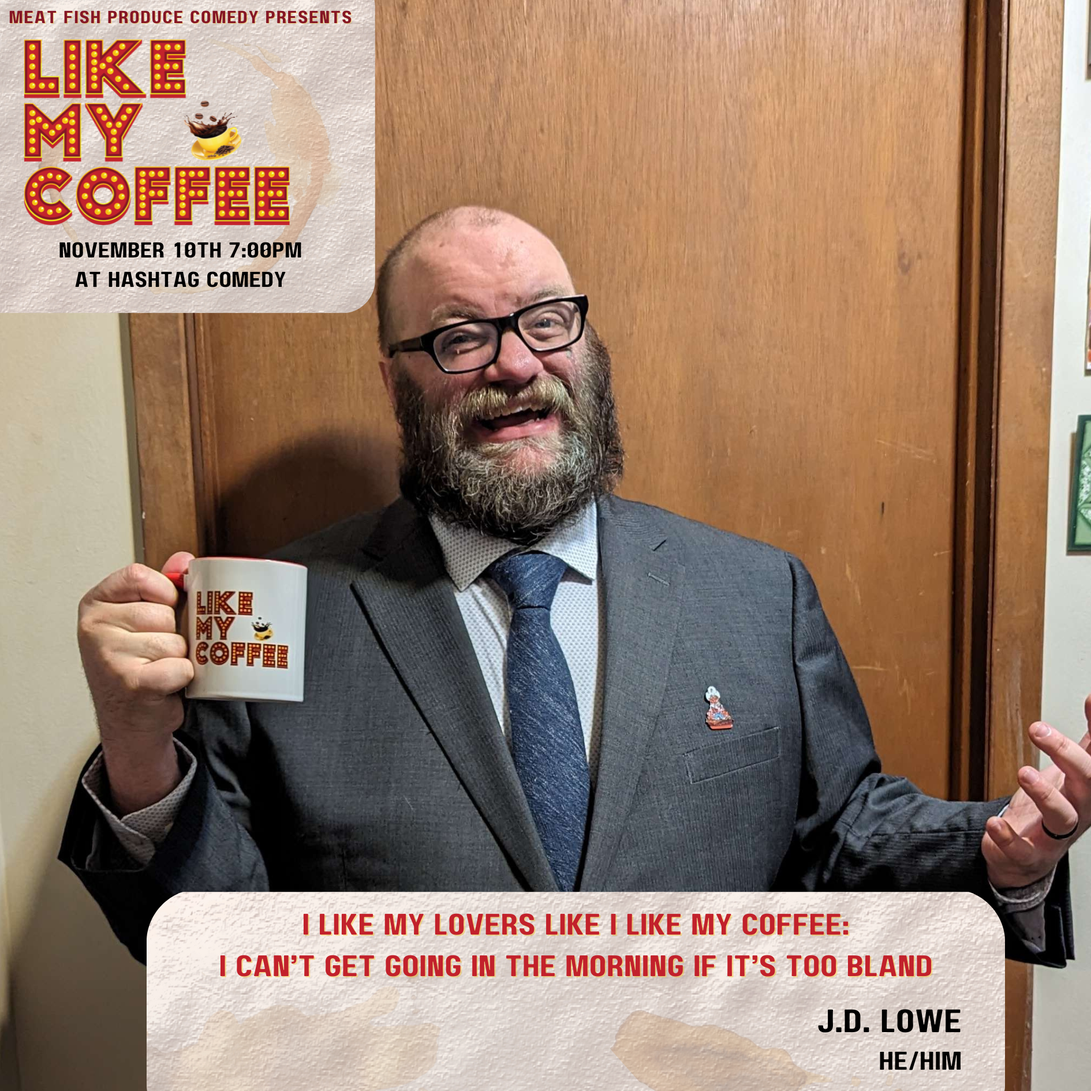
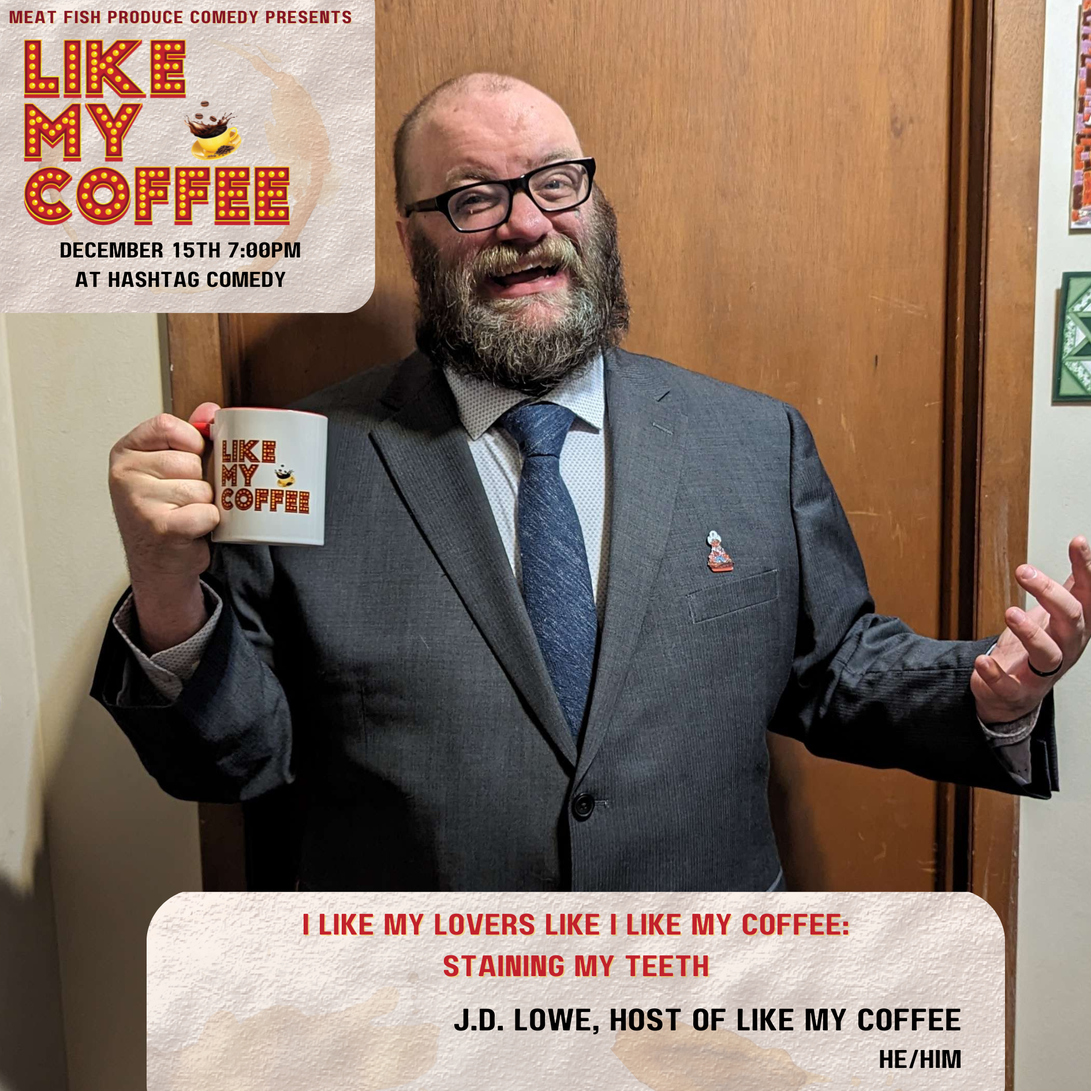
Prep for rehearsal

diff --git a/server/src/shows/archived/20241110.ts b/server/src/shows/archived/20241110.ts
@@ -1,0 +1,97 @@
+import { ShowType } from "../../../sharedCopy";
+
+export const show: ShowType = {
+	rounds: [
+		{
+			players: [
+				{
+					displayName: "Colin",
+					pronouns: "He/Him",
+					score: 0,
+					soundIndex: 0,
+				},
+				{
+					displayName: "Dodie",
+					pronouns: "He/Him",
+					score: 0,
+					soundIndex: 1,
+				},
+				{
+					displayName: "Leslie",
+					pronouns: "She/Her",
+					score: 0,
+					soundIndex: 2,
+				},
+			],
+			minigame: "We've Got Movie Line!",
+			example:
+				"Sex with me is like the movie Aladdin; the sequels ain't getting better",
+		},
+		{
+			players: [
+				{
+					displayName: "Dennison",
+					pronouns: "He/Him",
+					score: 0,
+					soundIndex: 3,
+				},
+				{
+					displayName: "Barack",
+					pronouns: "He/Him",
+					score: 0,
+					soundIndex: 4,
+				},
+				{
+					displayName: "Adam",
+					pronouns: "He/Him",
+					score: 0,
+					soundIndex: 5,
+				},
+			],
+			minigame: "Sexy Slogans",
+			example: "Nike - Just Do Me, or McDonalds: *jingle* I'm lovin' dick.",
+		},
+		{
+			players: [
+				{
+					displayName: "Tanya",
+					pronouns: "She/Her",
+					score: 0,
+					soundIndex: 6,
+				},
+				{
+					displayName: "Jules",
+					pronouns: "She/Her",
+					score: 0,
+					soundIndex: 7,
+				},
+				{
+					displayName: "Mike",
+					pronouns: "He/Him",
+					score: 0,
+					soundIndex: 8,
+				},
+			],
+			minigame: "Broken Communication",
+			example: "Flossing - Wow, I got really deep in there that time!",
+		},
+	],
+	images: [
+		"Apply.png",
+		"Adam.png",
+		"Barack.png",
+		"Colin.png",
+		"Dennison.png",
+		"Dodie.png",
+		"JD.png",
+		"Justin.png",
+		"Jules.png",
+		"Leslie.png",
+		"Mike.png",
+		"Tanya.png",
+		"Social.png",
+	],
+	logo: "logo.png",
+	apply: "Apply.png",
+	social: "Social.png",
+};

diff --git a/server/src/shows/20241215.ts b/server/src/shows/20241215.ts
@@ -1,0 +1,97 @@
+import { ShowType } from "../../sharedCopy";
+
+export const show: ShowType = {
+	rounds: [
+		{
+			players: [
+				{
+					displayName: "Allison",
+					pronouns: "She/Her",
+					score: 0,
+					soundIndex: 0,
+				},
+				{
+					displayName: "Kieran",
+					pronouns: "She/Her",
+					score: 0,
+					soundIndex: 1,
+				},
+				{
+					displayName: "Andrea",
+					pronouns: "She/Her",
+					score: 0,
+					soundIndex: 2,
+				},
+			],
+			minigame: "Name That Position",
+			example:
+				"The USB Drive - You have to flip over twice before it can go in",
+		},
+		{
+			players: [
+				{
+					displayName: "Caroline",
+					pronouns: "She/Her",
+					score: 0,
+					soundIndex: 3,
+				},
+				{
+					displayName: "Jace",
+					pronouns: "She/Her",
+					score: 0,
+					soundIndex: 4,
+				},
+				{
+					displayName: "Gabby",
+					pronouns: "They/She",
+					score: 0,
+					soundIndex: 5,
+				},
+			],
+			minigame: "Sexy Slogans",
+			example: "Nike - Just Do Me, or McDonalds: *jingle* I'm lovin' dick.",
+		},
+		{
+			players: [
+				{
+					displayName: "Ervin",
+					pronouns: "He/Him",
+					score: 0,
+					soundIndex: 6,
+				},
+				{
+					displayName: "Scott",
+					pronouns: "He/Him",
+					score: 0,
+					soundIndex: 7,
+				},
+				{
+					displayName: "Alex",
+					pronouns: "He/Him",
+					score: 0,
+					soundIndex: 8,
+				},
+			],
+			minigame: "Package Labels",
+			example: "Thanos - Infinity Stones",
+		},
+	],
+	images: [
+		"Apply.png",
+		"Alex.png",
+		"Allison.png",
+		"Andrea.png",
+		"Caroline.png",
+		"JD.png",
+		"Justin.png",
+		"Ervin.png",
+		"Gabby.png",
+		"Kieran.png",
+		"Scott.png",
+		"Adam.png",
+		"Social.png",
+	],
+	logo: "logo.png",
+	apply: "Apply.png",
+	social: "Social.png",
+};

diff --git a/server/src/gameLogic.ts b/server/src/gameLogic.ts
@@ -33,7 +33,7 @@ const currentState: FullStateType = {
 };
 
 export const startGameLogic = (io: any, app: any) => {
-	const maxTimeRemaining = 60 * 10; //Ten minutes
+	const maxTimeRemaining = 60 * 6; //Ten minutes
 	let timerRef: any = undefined;
 
 	const handleBuzzer = (buttonData: any) => {

diff --git a/server/src/shows/index.ts b/server/src/shows/index.ts
@@ -1,2 +1,2 @@
 //Update where this points to before every new show!
-export * from "./20241110";
+export * from "./20241215";
